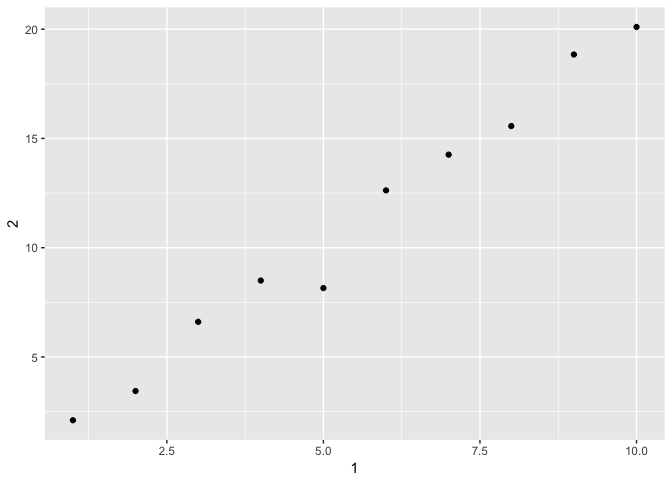
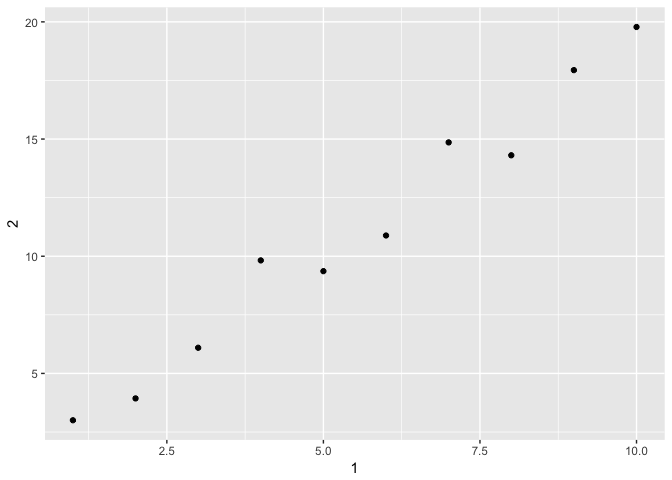
060717v1

diff --git a/R-club_May31/May31_Kazu.html b/R-club_May31/May31_Kazu.html
@@ -229,18 +229,18 @@ tribble(
   e = sample(letters, 1e3, replace = TRUE)
 )</code></pre>
 <pre><code>## # A tibble: 1,000 × 5
-##                      a          b     c          d     e
-##                 &lt;dttm&gt;     &lt;date&gt; &lt;int&gt;      &lt;dbl&gt; &lt;chr&gt;
-## 1  2017-06-01 00:43:32 2017-06-14     1 0.03371285     u
-## 2  2017-05-31 23:44:53 2017-06-02     2 0.12559413     a
-## 3  2017-06-01 04:15:35 2017-06-09     3 0.29327546     i
-## 4  2017-05-31 20:29:04 2017-06-19     4 0.23946122     d
-## 5  2017-06-01 04:19:40 2017-06-26     5 0.82501419     j
-## 6  2017-06-01 03:17:05 2017-06-09     6 0.40072332     a
-## 7  2017-06-01 14:13:57 2017-06-25     7 0.23340123     q
-## 8  2017-06-01 01:45:16 2017-06-05     8 0.23007574     r
-## 9  2017-06-01 07:03:59 2017-06-14     9 0.75816889     d
-## 10 2017-06-01 09:22:09 2017-06-24    10 0.82717117     a
+##                      a          b     c         d     e
+##                 &lt;dttm&gt;     &lt;date&gt; &lt;int&gt;     &lt;dbl&gt; &lt;chr&gt;
+## 1  2017-06-01 07:32:23 2017-06-25     1 0.9745846     m
+## 2  2017-06-01 04:37:57 2017-06-02     2 0.2895131     g
+## 3  2017-06-01 03:46:14 2017-06-23     3 0.4013583     b
+## 4  2017-06-01 09:32:24 2017-06-28     4 0.9700917     f
+## 5  2017-06-01 02:57:29 2017-06-09     5 0.2376065     n
+## 6  2017-06-01 09:52:39 2017-06-03     6 0.2480280     o
+## 7  2017-06-01 02:57:23 2017-06-20     7 0.2851829     e
+## 8  2017-06-01 05:32:42 2017-06-27     8 0.1755229     s
+## 9  2017-06-01 05:05:06 2017-06-12     9 0.8628917     f
+## 10 2017-06-01 04:33:24 2017-06-24    10 0.2054477     l
 ## # ... with 990 more rows</code></pre>
 <pre class="r"><code># Tibbles are designed so that you don’t accidentally overwhelm your console when you print large data frames. But sometimes you need more output than the default display. There are a few options that can help.
 nycflights13::flights %&gt;% 
@@ -294,20 +294,20 @@ nycflights13::flights %&gt;%
 )
 # Extract by name
 df$x</code></pre>
-<pre><code>## [1] 0.9783214 0.5506387 0.7550126 0.4479593 0.7200846</code></pre>
+<pre><code>## [1] 0.77120519 0.01702861 0.41140143 0.98466833 0.83055419</code></pre>
 <pre class="r"><code>#&gt; [1] 0.434 0.395 0.548 0.762 0.254
 df[[&quot;x&quot;]]</code></pre>
-<pre><code>## [1] 0.9783214 0.5506387 0.7550126 0.4479593 0.7200846</code></pre>
+<pre><code>## [1] 0.77120519 0.01702861 0.41140143 0.98466833 0.83055419</code></pre>
 <pre class="r"><code>#&gt; [1] 0.434 0.395 0.548 0.762 0.254
 # Extract by position
 df[[1]]</code></pre>
-<pre><code>## [1] 0.9783214 0.5506387 0.7550126 0.4479593 0.7200846</code></pre>
+<pre><code>## [1] 0.77120519 0.01702861 0.41140143 0.98466833 0.83055419</code></pre>
 <pre class="r"><code>## To use these in a pipe, you’ll need to use the special placeholder .:
 df %&gt;% .$x</code></pre>
-<pre><code>## [1] 0.9783214 0.5506387 0.7550126 0.4479593 0.7200846</code></pre>
+<pre><code>## [1] 0.77120519 0.01702861 0.41140143 0.98466833 0.83055419</code></pre>
 <pre class="r"><code>#&gt; [1] 0.434 0.395 0.548 0.762 0.254
 df %&gt;% .[[&quot;x&quot;]]</code></pre>
-<pre><code>## [1] 0.9783214 0.5506387 0.7550126 0.4479593 0.7200846</code></pre>
+<pre><code>## [1] 0.77120519 0.01702861 0.41140143 0.98466833 0.83055419</code></pre>
 </div>
 </div>
 <div id="interacting-with-older-code" class="section level1">
@@ -352,8 +352,10 @@ df$x #  </code></pre>
 <pre class="r"><code>df[, &quot;xyz&quot;]</code></pre>
 <pre><code>## [1] a
 ## Levels: a</code></pre>
-<pre class="r"><code>#df[, c(&quot;abc&quot;, &quot;xyz&quot;)]
-## tibble version
+<pre class="r"><code>df[, c(&quot;abc&quot;, &quot;xyz&quot;)]</code></pre>
+<pre><code>##   abc xyz
+## 1   1   a</code></pre>
+<pre class="r"><code>## tibble version
 tb.10.5&lt;-tibble(abc = 1, xyz = &quot;a&quot;)
 #tb.10.5$x
 # NULL
@@ -380,6 +382,12 @@ select(tb.10.5, abc,xyz)</code></pre>
 ##     abc   xyz
 ##   &lt;dbl&gt; &lt;chr&gt;
 ## 1     1     a</code></pre>
+<pre class="r"><code># if df is converted into tibble by as.tibble, the &quot;xyz&quot; column become a factor
+as.tibble(df)</code></pre>
+<pre><code>## # A tibble: 1 × 2
+##     abc    xyz
+##   &lt;dbl&gt; &lt;fctr&gt;
+## 1     1      a</code></pre>
 <pre class="r"><code>#3. If you have the name of a variable stored in an object, e.g. var &lt;- &quot;mpg&quot;, how can you extract the reference variable from a tibble?
 var&lt;-&quot;mpg&quot;
 var.tb&lt;-tibble(var2=var)
@@ -420,7 +428,7 @@ annoying[[&quot;1&quot;]]</code></pre>
 <pre><code>##  [1]  1  2  3  4  5  6  7  8  9 10</code></pre>
 <pre class="r"><code>## Plotting a scatterplot of 1 vs 2.
 annoying %&gt;% ggplot(aes(x=`1`,y=`2`)) + geom_point()</code></pre>
[2 lines of base64/hex data omitted]
 <pre class="r"><code>## Creating a new column called 3 which is 2 divided by 1.
 annoying2&lt;-mutate(annoying,`3`=`2`/`1`)
 ## Renaming the columns to one, two and three.
@@ -429,16 +437,16 @@ annoying2</code></pre>
 <pre><code>## # A tibble: 10 × 3
 ##      one       two    three
 ##    &lt;int&gt;     &lt;dbl&gt;    &lt;dbl&gt;
-## 1      1  2.102631 2.102631
-## 2      2  3.439841 1.719921
-## 3      3  6.606728 2.202243
-## 4      4  8.497952 2.124488
-## 5      5  8.152574 1.630515
-## 6      6 12.624177 2.104030
-## 7      7 14.257869 2.036838
-## 8      8 15.566958 1.945870
-## 9      9 18.843013 2.093668
-## 10    10 20.102333 2.010233</code></pre>
+## 1      1  3.002286 3.002286
+## 2      2  3.933927 1.966964
+## 3      3  6.095498 2.031833
+## 4      4  9.822720 2.455680
+## 5      5  9.363226 1.872645
+## 6      6 10.885428 1.814238
+## 7      7 14.857328 2.122475
+## 8      8 14.307727 1.788466
+## 9      9 17.941278 1.993475
+## 10    10 19.782188 1.978219</code></pre>
 <pre class="r"><code>## or
 rename</code></pre>
 <pre><code>## function (.data, ...) 

diff --git a/R-club_May31/May31_Kazu.md b/R-club_May31/May31_Kazu.md
@@ -149,18 +149,18 @@ tibble(
 
 ```
 ## # A tibble: 1,000 × 5
-##                      a          b     c          d     e
-##                 <dttm>     <date> <int>      <dbl> <chr>
-## 1  2017-06-01 00:43:32 2017-06-14     1 0.03371285     u
-## 2  2017-05-31 23:44:53 2017-06-02     2 0.12559413     a
-## 3  2017-06-01 04:15:35 2017-06-09     3 0.29327546     i
-## 4  2017-05-31 20:29:04 2017-06-19     4 0.23946122     d
-## 5  2017-06-01 04:19:40 2017-06-26     5 0.82501419     j
-## 6  2017-06-01 03:17:05 2017-06-09     6 0.40072332     a
-## 7  2017-06-01 14:13:57 2017-06-25     7 0.23340123     q
-## 8  2017-06-01 01:45:16 2017-06-05     8 0.23007574     r
-## 9  2017-06-01 07:03:59 2017-06-14     9 0.75816889     d
-## 10 2017-06-01 09:22:09 2017-06-24    10 0.82717117     a
+##                      a          b     c         d     e
+##                 <dttm>     <date> <int>     <dbl> <chr>
+## 1  2017-06-01 07:32:23 2017-06-25     1 0.9745846     m
+## 2  2017-06-01 04:37:57 2017-06-02     2 0.2895131     g
+## 3  2017-06-01 03:46:14 2017-06-23     3 0.4013583     b
+## 4  2017-06-01 09:32:24 2017-06-28     4 0.9700917     f
+## 5  2017-06-01 02:57:29 2017-06-09     5 0.2376065     n
+## 6  2017-06-01 09:52:39 2017-06-03     6 0.2480280     o
+## 7  2017-06-01 02:57:23 2017-06-20     7 0.2851829     e
+## 8  2017-06-01 05:32:42 2017-06-27     8 0.1755229     s
+## 9  2017-06-01 05:05:06 2017-06-12     9 0.8628917     f
+## 10 2017-06-01 04:33:24 2017-06-24    10 0.2054477     l
 ## # ... with 990 more rows
 ```
 
@@ -227,7 +227,7 @@ df$x
 ```
 
 ```
-## [1] 0.9783214 0.5506387 0.7550126 0.4479593 0.7200846
+## [1] 0.77120519 0.01702861 0.41140143 0.98466833 0.83055419
 ```
 
 ```r
@@ -236,7 +236,7 @@ df[["x"]]
 ```
 
 ```
-## [1] 0.9783214 0.5506387 0.7550126 0.4479593 0.7200846
+## [1] 0.77120519 0.01702861 0.41140143 0.98466833 0.83055419
 ```
 
 ```r
@@ -246,7 +246,7 @@ df[[1]]
 ```
 
 ```
-## [1] 0.9783214 0.5506387 0.7550126 0.4479593 0.7200846
+## [1] 0.77120519 0.01702861 0.41140143 0.98466833 0.83055419
 ```
 
 ```r
@@ -255,7 +255,7 @@ df %>% .$x
 ```
 
 ```
-## [1] 0.9783214 0.5506387 0.7550126 0.4479593 0.7200846
+## [1] 0.77120519 0.01702861 0.41140143 0.98466833 0.83055419
 ```
 
 ```r
@@ -264,7 +264,7 @@ df %>% .[["x"]]
 ```
 
 ```
-## [1] 0.9783214 0.5506387 0.7550126 0.4479593 0.7200846
+## [1] 0.77120519 0.01702861 0.41140143 0.98466833 0.83055419
 ```
 # 10.4 Interacting with older code
 
@@ -352,7 +352,15 @@ df[, "xyz"]
 ```
 
 ```r
-#df[, c("abc", "xyz")]
+df[, c("abc", "xyz")]
+```
+
+```
+##   abc xyz
+## 1   1   a
+```
+
+```r
 ## tibble version
 tb.10.5<-tibble(abc = 1, xyz = "a")
 #tb.10.5$x
@@ -401,6 +409,18 @@ select(tb.10.5, abc,xyz)
 ##     abc   xyz
 ##   <dbl> <chr>
 ## 1     1     a
+```
+
+```r
+# if df is converted into tibble by as.tibble, the "xyz" column become a factor
+as.tibble(df)
+```
+
+```
+## # A tibble: 1 × 2
+##     abc    xyz
+##   <dbl> <fctr>
+## 1     1      a
 ```
 
 ```r
@@ -490,16 +510,16 @@ annoying2
 ## # A tibble: 10 × 3
 ##      one       two    three
 ##    <int>     <dbl>    <dbl>
-## 1      1  2.102631 2.102631
-## 2      2  3.439841 1.719921
-## 3      3  6.606728 2.202243
-## 4      4  8.497952 2.124488
-## 5      5  8.152574 1.630515
-## 6      6 12.624177 2.104030
-## 7      7 14.257869 2.036838
-## 8      8 15.566958 1.945870
-## 9      9 18.843013 2.093668
-## 10    10 20.102333 2.010233
+## 1      1  3.002286 3.002286
+## 2      2  3.933927 1.966964
+## 3      3  6.095498 2.031833
+## 4      4  9.822720 2.455680
+## 5      5  9.363226 1.872645
+## 6      6 10.885428 1.814238
+## 7      7 14.857328 2.122475
+## 8      8 14.307727 1.788466
+## 9      9 17.941278 1.993475
+## 10    10 19.782188 1.978219
 ```
 
 ```r
